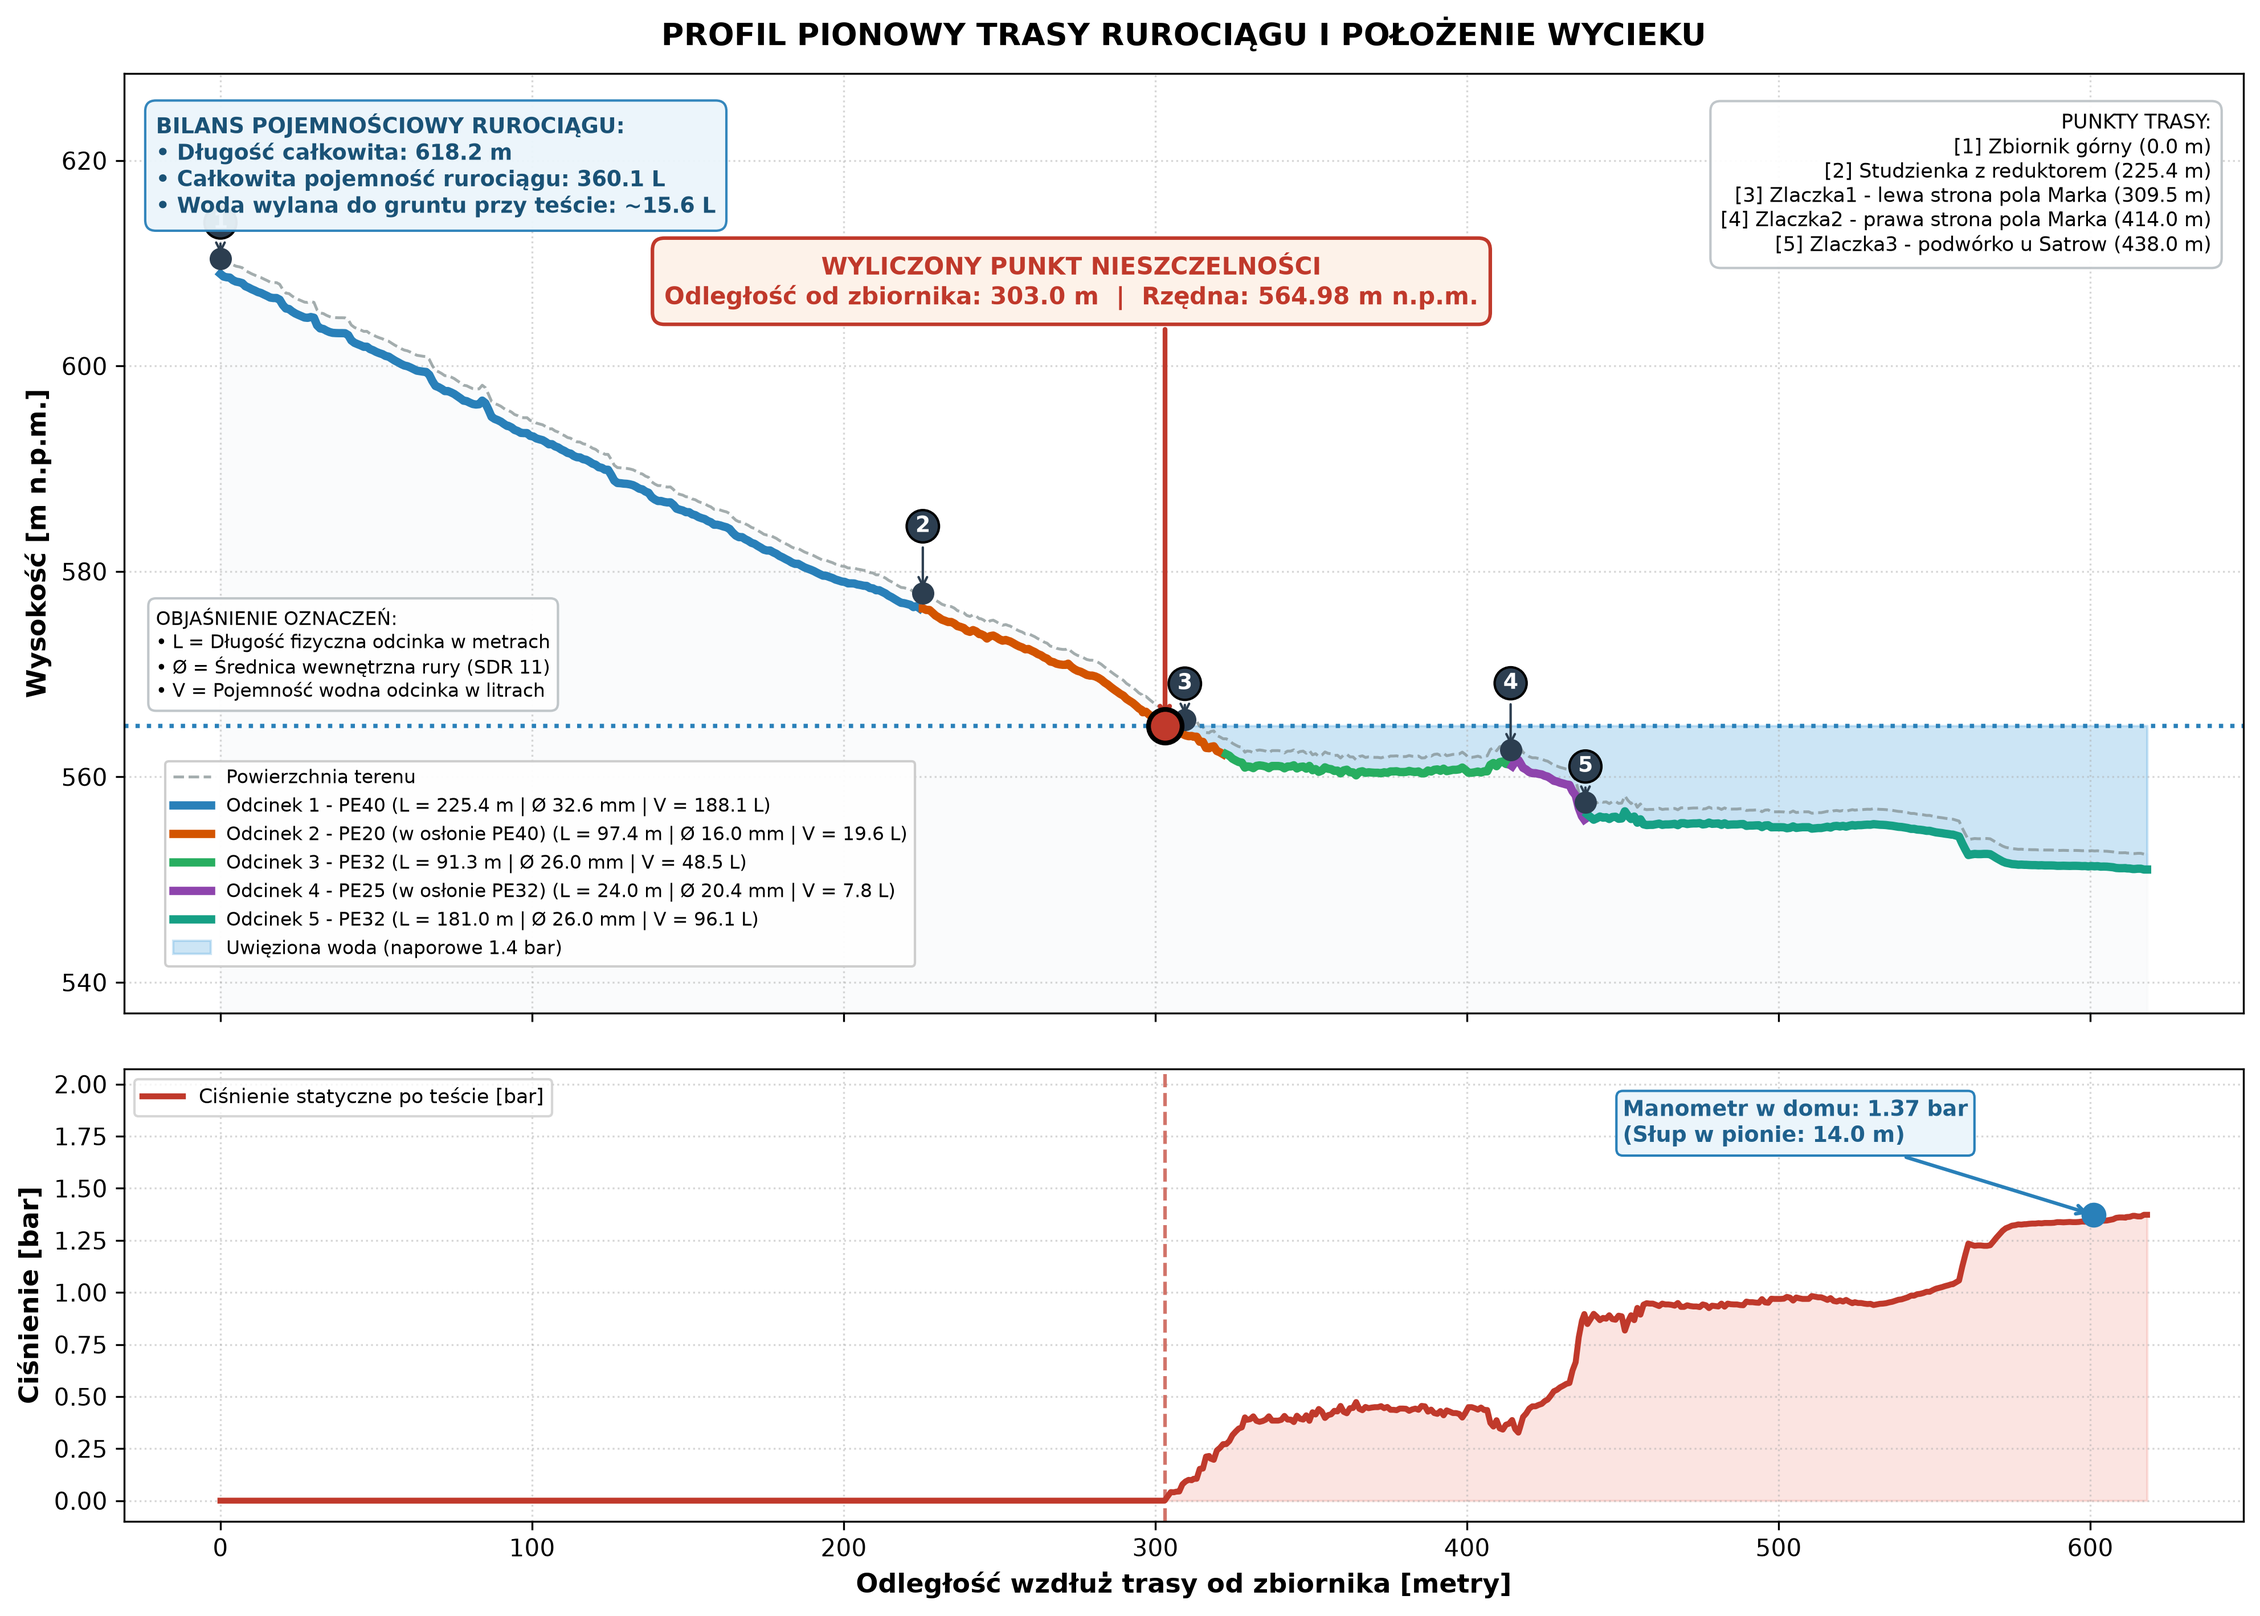
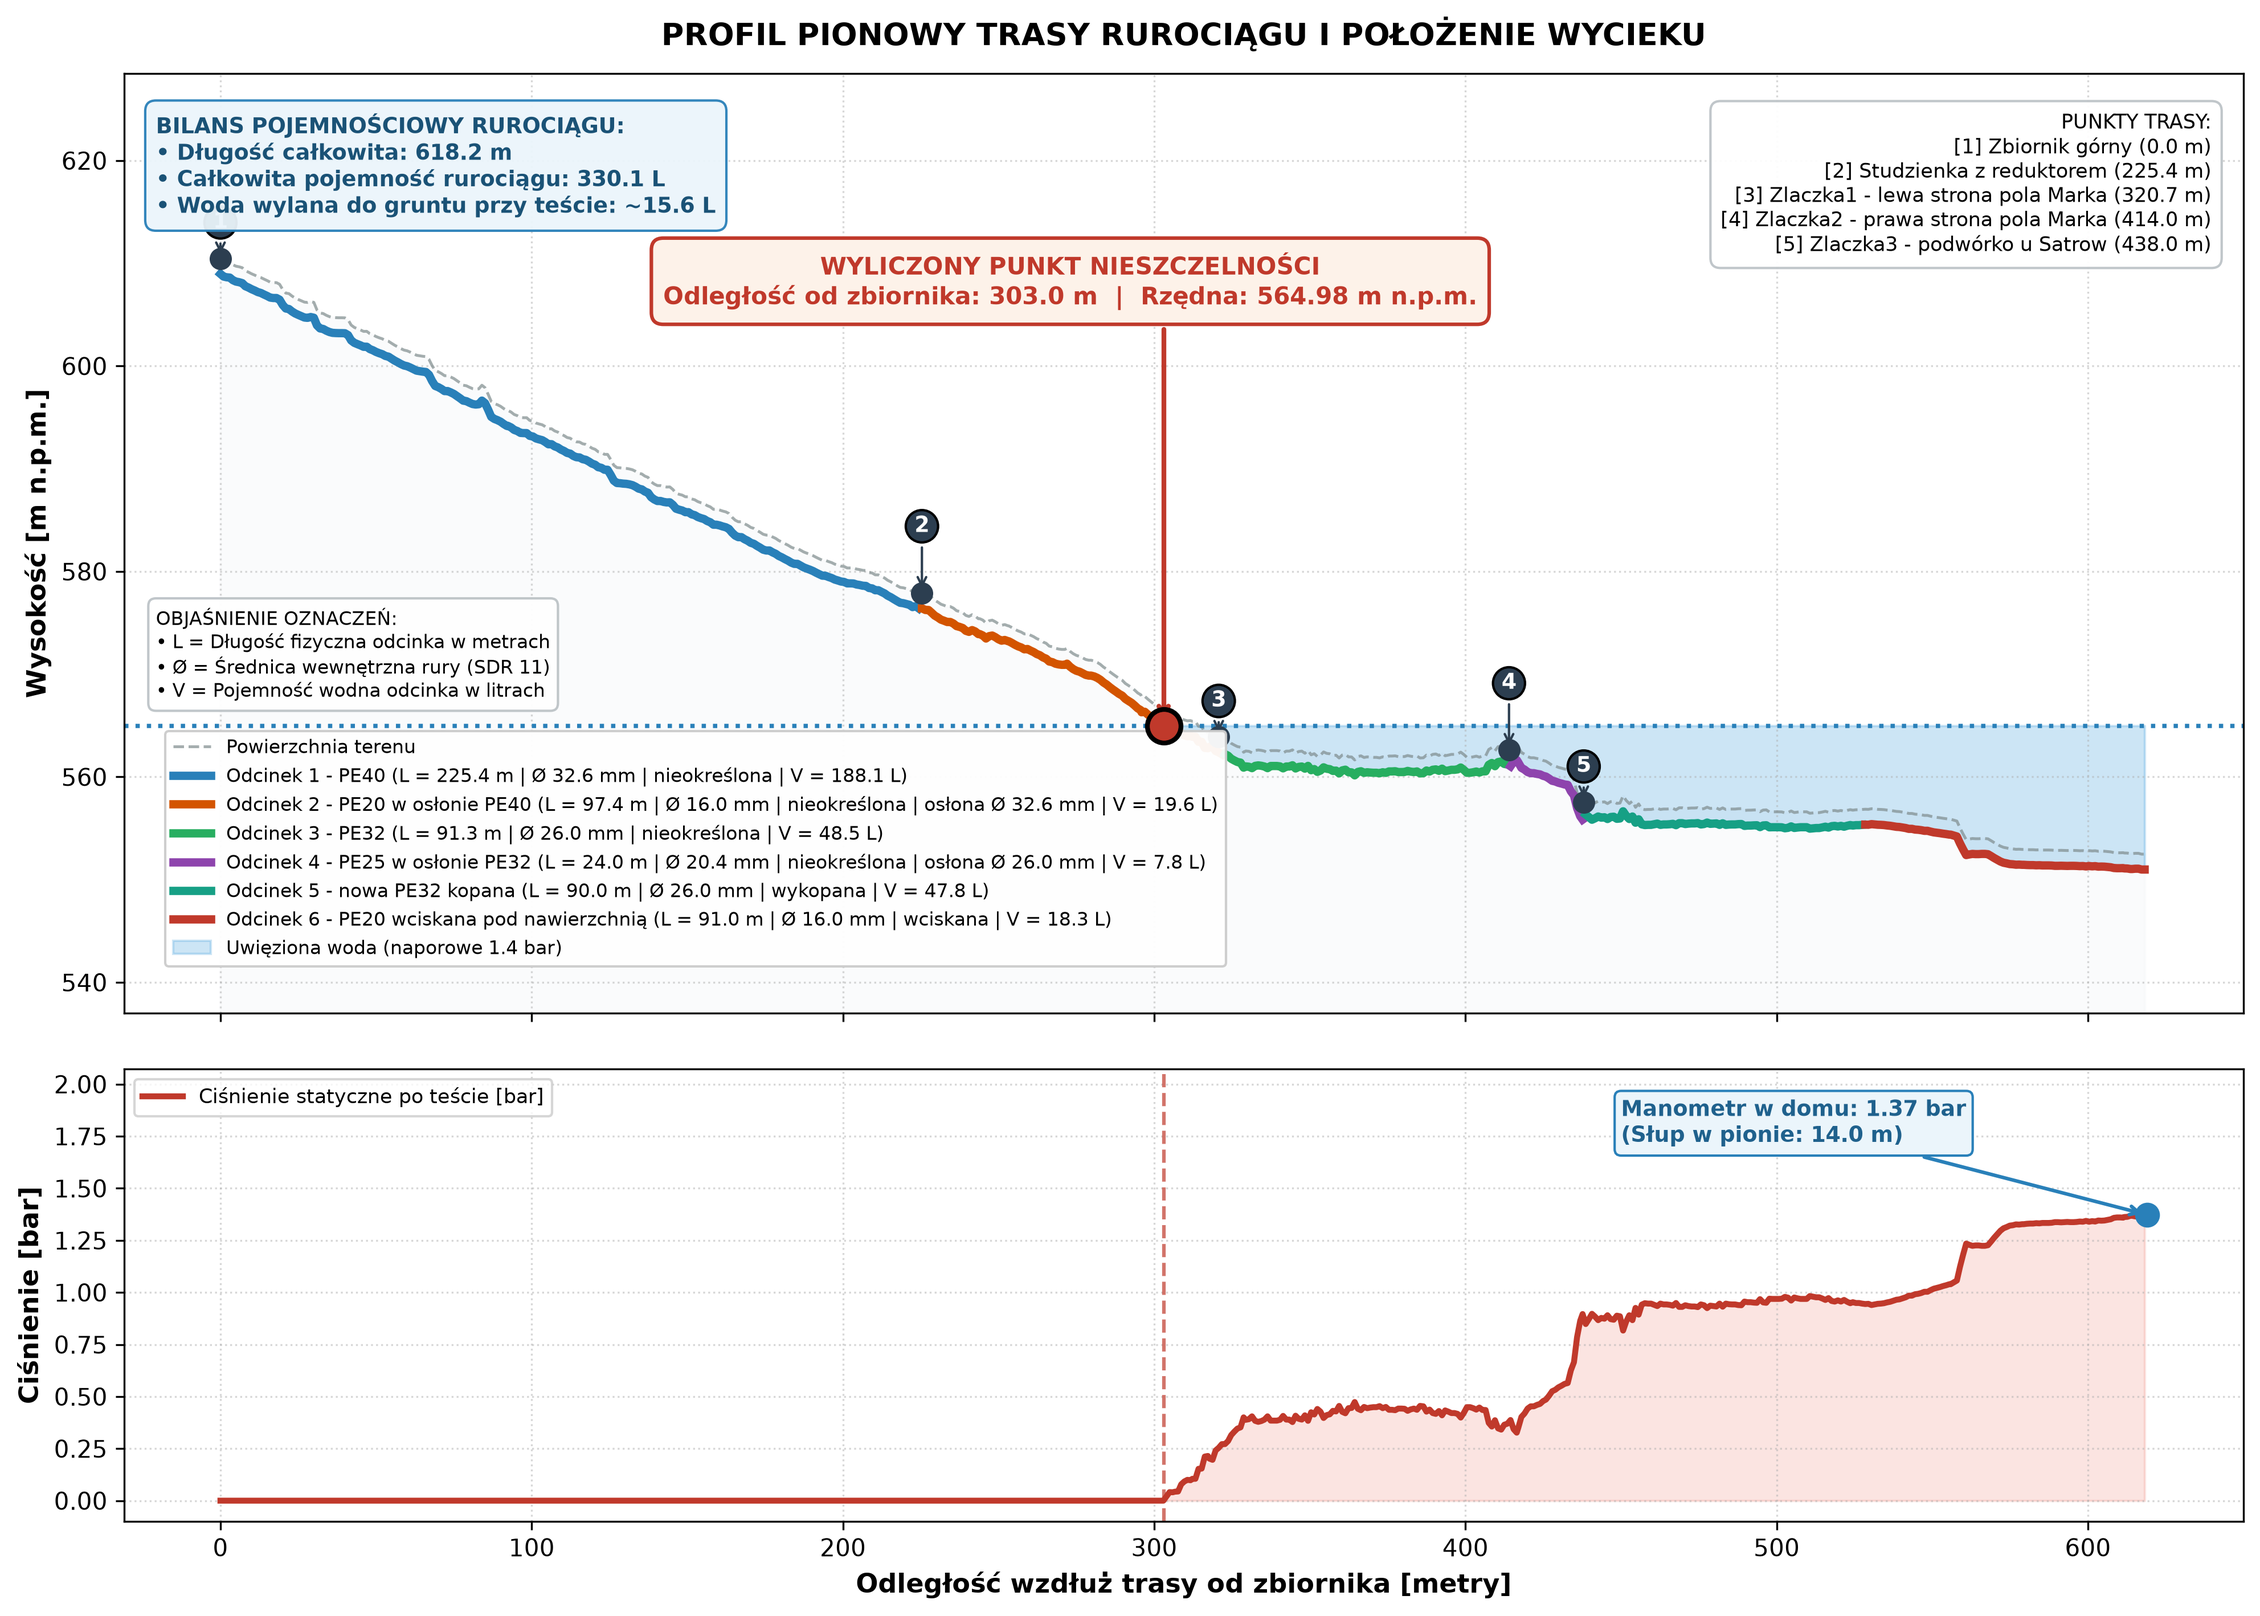
c

diff --git a/config.py b/config.py
@@ -73,46 +73,117 @@ PUNKTY_INFRASTRUKTURY = [
     }
 ]
 
-# 4. SEKCJE RUROCIĄGU
-SEKCJE_RUR = [
+# 4. DEFINICJA RUR I SEKCJI RUROCIĄGU
+#
+# Edycja geometrii odbywa się tutaj:
+# - rura_wewnetrzna.srednica: średnica hydrauliczna przewodu,
+# - osłona.srednica: opcjonalna rura, w której prowadzony jest przewód,
+# - podzialy_m: dodatkowe granice odcinka, np. dla końcowego odcinka.
+# Każda sekcja może mieć własną rurę w rurze; osłona nie bierze udziału
+# w obliczaniu strat przepływu.
+# Punkt zmiany technologii. Zastąp rzeczywistym metrażem po wytyczeniu trasy.
+GRANICA_PE20_WCISKANEJ_M = 518.0  # ok. 80 m od Złączki nr 3 na km 438.0
+
+DEFINICJE_SEKCJI_RUR = [
     {
         'nazwa': 'Odcinek 1 - PE40',
-        'srednica': D_PE40,
-        'grubosc_scianki': 0.0037,
         'od_metra': 0.0,
         'do_metra': 225.38,
+        'rura_wewnetrzna': {'nazwa': 'PE40', 'srednica': D_PE40, 'grubosc_scianki': 0.0037},
+        'osłona': None,
     },
     {
-        'nazwa': 'Odcinek 2 - PE20 (w osłonie PE40)',
-        'srednica': D_PE20,
-        'srednica_oslony': D_PE40,
-        'grubosc_scianki': 0.0020,
+        'nazwa': 'Odcinek 2 - PE20 w osłonie PE40',
         'od_metra': 225.38,
         'do_metra': 322.73,
+        'rura_wewnetrzna': {'nazwa': 'PE20', 'srednica': D_PE20, 'grubosc_scianki': 0.0020},
+        'osłona': {'nazwa': 'PE40', 'srednica': D_PE40},
     },
     {
         'nazwa': 'Odcinek 3 - PE32',
-        'srednica': D_PE32,
-        'grubosc_scianki': 0.0030,
         'od_metra': 322.73,
         'do_metra': 414.0,
+        'rura_wewnetrzna': {'nazwa': 'PE32', 'srednica': D_PE32, 'grubosc_scianki': 0.0030},
+        'osłona': None,
     },
     {
-        'nazwa': 'Odcinek 4 - PE25 (w osłonie PE32)',
-        'srednica': D_PE25,
-        'srednica_oslony': D_PE32,
-        'grubosc_scianki': 0.0023,
+        'nazwa': 'Odcinek 4 - PE25 w osłonie PE32',
         'od_metra': 414.0,
         'do_metra': 438.0,
+        'rura_wewnetrzna': {'nazwa': 'PE25', 'srednica': D_PE25, 'grubosc_scianki': 0.0023},
+        'osłona': {'nazwa': 'PE32', 'srednica': D_PE32},
     },
     {
-        'nazwa': 'Odcinek 5 - PE32',
-        'srednica': D_PE32,
-        'grubosc_scianki': 0.0030,
+        'nazwa': 'Odcinek 5 - nowa PE32 kopana',
         'od_metra': 438.0,
+        'do_metra': GRANICA_PE20_WCISKANEJ_M,
+        'rura_wewnetrzna': {'nazwa': 'PE32', 'srednica': D_PE32, 'grubosc_scianki': 0.0030},
+        'osłona': None,
+        'technologia': 'wykopana',
+    },
+    {
+        'nazwa': 'Odcinek 6 - PE20 wciskana pod nawierzchnią',
+        'od_metra': GRANICA_PE20_WCISKANEJ_M,
         'do_metra': 619.0,
+        'rura_wewnetrzna': {'nazwa': 'PE20', 'srednica': D_PE20, 'grubosc_scianki': 0.0020},
+        # Jeśli PE20 będzie wciskana w większą rurę/osłonę, wpisz ją tutaj.
+        'osłona': None,
+        'technologia': 'wciskana',
     },
 ]
+
+
+def _rozwin_sekcje(definicje):
+    sekcje = []
+    for definicja in definicje:
+        granice = [definicja['od_metra'], *definicja.get('podzialy_m', []), definicja['do_metra']]
+        granice = sorted(set(granice))
+        if granice[0] != definicja['od_metra'] or granice[-1] != definicja['do_metra']:
+            raise ValueError(f"Podziały poza zakresem sekcji: {definicja['nazwa']}")
+        for numer, (od_metra, do_metra) in enumerate(zip(granice[:-1], granice[1:]), start=1):
+            if do_metra <= od_metra:
+                raise ValueError(f"Nieprawidłowy zakres sekcji: {definicja['nazwa']}")
+            rura = definicja['rura_wewnetrzna']
+            osłona = definicja.get('osłona')
+            nazwa = definicja['nazwa']
+            if len(granice) > 2:
+                nazwa = f"{nazwa} / część {numer}"
+            sekcja = {
+                'nazwa': nazwa,
+                'od_metra': od_metra,
+                'do_metra': do_metra,
+                'rura_wewnetrzna': dict(rura),
+                'osłona': dict(osłona) if osłona else None,
+                'technologia': definicja.get('technologia', 'nieokreślona'),
+                # Pola płaskie dla istniejących skryptów.
+                'srednica': rura['srednica'],
+                'grubosc_scianki': rura['grubosc_scianki'],
+                'srednica_oslony': osłona['srednica'] if osłona else None,
+            }
+            sekcje.append(sekcja)
+    return sekcje
+
+
+SEKCJE_RUR = _rozwin_sekcje(DEFINICJE_SEKCJI_RUR)
+
+
+def _sprawdz_ciaglosc_sekcji(sekcje):
+    if not sekcje:
+        raise ValueError('Brak zdefiniowanych sekcji rur')
+    for poprzednia, biezaca in zip(sekcje, sekcje[1:]):
+        if abs(poprzednia['do_metra'] - biezaca['od_metra']) > 1e-9:
+            raise ValueError(
+                f"Przerwa lub nakładanie sekcji między {poprzednia['nazwa']} "
+                f"a {biezaca['nazwa']}"
+            )
+    if abs(sekcje[0]['od_metra'] - 0.0) > 1e-9:
+        raise ValueError('Pierwsza sekcja musi zaczynać się na 0 m')
+    metr_dom = next(p['metr'] for p in PUNKTY_INFRASTRUKTURY if p['typ'] == 'dom')
+    if abs(sekcje[-1]['do_metra'] - metr_dom) > 1e-9:
+        raise ValueError('Ostatnia sekcja musi kończyć się przy domu')
+
+
+_sprawdz_ciaglosc_sekcji(SEKCJE_RUR)
 
 # 5. DANE Z TESTU TATY
 POMIAR_TEST_SZCZELNOSCI = {

diff --git a/generuj_raport_wykres.py b/generuj_raport_wykres.py
@@ -50,6 +50,8 @@ def oblicz_parametry_odcinkow():
             'od_metra': s['od_metra'],
             'do_metra': s['do_metra'],
             'srednica': d,
+            'srednica_oslony': s.get('srednica_oslony'),
+            'technologia': s.get('technologia', 'nieokreślona'),
             'dlugosc': dlugosc,
             'pojemnosc_l': pojemnosc_l
         })
@@ -117,14 +119,15 @@ def rysuj_raport(m, z_teren, res):
     ax1.plot(m, z_teren, color='#7f8c8d', linestyle='--', linewidth=1.2, label='Powierzchnia terenu', alpha=0.7)
     ax1.fill_between(m, z_teren, min(res['z_rura']) - 15, color='#f8f9fa', alpha=0.6)
 
-    kolory_sekcji = ['#2980b9', '#d35400', '#27ae60', '#8e44ad', '#16a085']
+    kolory_sekcji = ['#2980b9', '#d35400', '#27ae60', '#8e44ad', '#16a085', '#c0392b']
     for numer_sekcji, sekcja in enumerate(res['dane_sekcji']):
         mask = (m >= sekcja['od_metra']) & (m <= sekcja['do_metra'])
         kolor = kolory_sekcji[numer_sekcji % len(kolory_sekcji)]
         
+        opis_oslony = f"osłona Ø {sekcja['srednica_oslony']*1000:.1f} mm | " if sekcja['srednica_oslony'] else ""
         etykieta = (
             f"{sekcja['nazwa']} (L = {sekcja['dlugosc']:.1f} m | "
-            f"Ø {sekcja['srednica']*1000:.1f} mm | "
+            f"Ø {sekcja['srednica']*1000:.1f} mm | {sekcja['technologia']} | {opis_oslony}"
             f"V = {sekcja['pojemnosc_l']:.1f} L)"
         )
         
@@ -214,9 +217,10 @@ def rysuj_raport(m, z_teren, res):
     ax2.axvline(res['m_wyciek'], color='#c0392b', linestyle='--', alpha=0.7)
 
     p_dom = config.POMIAR_TEST_SZCZELNOSCI['cisnienie_ustabilizowane_bar']
-    ax2.scatter([601.0], [p_dom], color='#2980b9', s=90, zorder=5)
+    punkt_dom = next(p for p in config.PUNKTY_INFRASTRUKTURY if p['typ'] == 'dom')
+    ax2.scatter([punkt_dom['metr']], [p_dom], color='#2980b9', s=90, zorder=5)
     ax2.annotate(f"Manometr w domu: {p_dom:.2f} bar\n(Słup w pionie: {res['slup_wody']:.1f} m)",
-                 xy=(601.0, p_dom), xytext=(450, p_dom + 0.35),
+                 xy=(punkt_dom['metr'], p_dom), xytext=(max(0, punkt_dom['metr'] - 169), p_dom + 0.35),
                  arrowprops=dict(arrowstyle='->', color='#2980b9', lw=1.5),
                  fontsize=9, fontweight='bold', color='#1f618d',
                  bbox=dict(boxstyle="round,pad=0.3", fc="#ebf5fb", ec="#2980b9", lw=1))
@@ -246,10 +250,11 @@ def drukuj_raport(m, z_teren, res):
     print(f" >>> PUNKT WYCIEKU Z OBLICZEŃ:        {res['m_wyciek']:.2f} m trasy od zbiornika <<<")
     print("═" * 86)
     print(f" PARAMETRY ODCINKÓW RUR:")
-    print(f"{'Nazwa sekcji':<20} | {'Długość (L)':<12} | {'Śr. wewn. (Ø)':<14} | {'Pojemność (V)':<14}")
+    print(f"{'Nazwa sekcji':<32} | {'Technologia':<12} | {'Długość (L)':<12} | {'Śr. wewn. (Ø)':<14} | {'Osłona Ø':<12} | {'Pojemność (V)':<14}")
     print("─" * 86)
     for s in res['dane_sekcji']:
-        print(f"{s['nazwa']:<20} | {s['dlugosc']:<6.1f} m     | {s['srednica']*1000:<8.1f} mm     | {s['pojemnosc_l']:<8.1f} L")
+        oslona = f"{s['srednica_oslony'] * 1000:.1f} mm" if s['srednica_oslony'] else "brak"
+        print(f"{s['nazwa']:<32} | {s['technologia']:<12} | {s['dlugosc']:<6.1f} m     | {s['srednica']*1000:<8.1f} mm     | {oslona:<12} | {s['pojemnosc_l']:<8.1f} L")
     print("─" * 86)
     print(f" RAZEM W CAŁYM RUROCIĄGU:     L = {max(m):.1f} m | V = {res['pojemnosc_calkowita']:.1f} L (zrzut w teście: ~{res['v_zrzut']:.1f} L)")
     print("═" * 86)

diff --git a/core/hydraulika.py b/core/hydraulika.py
@@ -57,14 +57,30 @@ def predkosc_fali_zukowskiego(srednica: float, grubosc_scianki: float) -> float:
 
 
 def srednica_dla_metra(metr: float) -> float:
-    for sekcja in config.SEKCJE_RUR:
-        if sekcja["od_metra"] <= metr <= sekcja["do_metra"]:
+    for numer, sekcja in enumerate(config.SEKCJE_RUR):
+        jest_ostatnia = numer == len(config.SEKCJE_RUR) - 1
+        if sekcja["od_metra"] <= metr < sekcja["do_metra"] or (jest_ostatnia and metr == sekcja["do_metra"]):
             return sekcja["srednica"]
     raise ValueError(f"Kilometraż poza rurociągiem: {metr}")
 
 def pobierz_srednice_wewn(m_pozycja):
     """Zwraca średnicę wewnętrzną rury [m] dla danego kilometraża z config.SEKCJE_RUR."""
-    for sekcja in config.SEKCJE_RUR:
-        if sekcja['od_metra'] <= m_pozycja <= sekcja['do_metra']:
+    for numer, sekcja in enumerate(config.SEKCJE_RUR):
+        jest_ostatnia = numer == len(config.SEKCJE_RUR) - 1
+        if sekcja['od_metra'] <= m_pozycja < sekcja['do_metra'] or (jest_ostatnia and m_pozycja == sekcja['do_metra']):
             return sekcja['srednica']
     return config.D_PE32
+
+
+def pobierz_sekcje(m_pozycja: float) -> dict:
+    """Zwraca pełną sekcję, w tym przewód wewnętrzny i opcjonalną osłonę."""
+    for numer, sekcja in enumerate(config.SEKCJE_RUR):
+        jest_ostatnia = numer == len(config.SEKCJE_RUR) - 1
+        if sekcja['od_metra'] <= m_pozycja < sekcja['do_metra'] or (jest_ostatnia and m_pozycja == sekcja['do_metra']):
+            return sekcja
+    raise ValueError(f"Kilometraż poza zdefiniowanymi sekcjami: {m_pozycja}")
+
+
+def pobierz_rure_i_oslone(m_pozycja: float) -> tuple[dict, dict | None]:
+    sekcja = pobierz_sekcje(m_pozycja)
+    return sekcja['rura_wewnetrzna'], sekcja['osłona']

diff --git a/skrypty/02_linia_cisnien_hgl.py b/skrypty/02_linia_cisnien_hgl.py
@@ -7,7 +7,7 @@ import numpy as np
 ROOT = Path(__file__).resolve().parents[1]
 sys.path.insert(0, str(ROOT))
 import config
-from core.hydraulika import metry_na_bar, strata_lokalna_darcy
+from core.hydraulika import metry_na_bar, srednica_dla_metra, strata_lokalna_darcy
 from core.profil import ProfilTerenowy
 
 
@@ -16,7 +16,7 @@ def hgl_dla_q(profil: ProfilTerenowy, q_lmin: float) -> np.ndarray:
     hgl = [zbiornik]
     q = q_lmin / 1000 / 60
     for m1, m2 in zip(profil.metry[:-1], profil.metry[1:]):
-        strata = strata_lokalna_darcy(q, m2 - m1, next(s["srednica"] for s in config.SEKCJE_RUR if s["od_metra"] <= m1 <= s["do_metra"]))
+        strata = strata_lokalna_darcy(q, m2 - m1, srednica_dla_metra(float(m1)))
         hgl.append(hgl[-1] - strata)
     return np.asarray(hgl)
 
